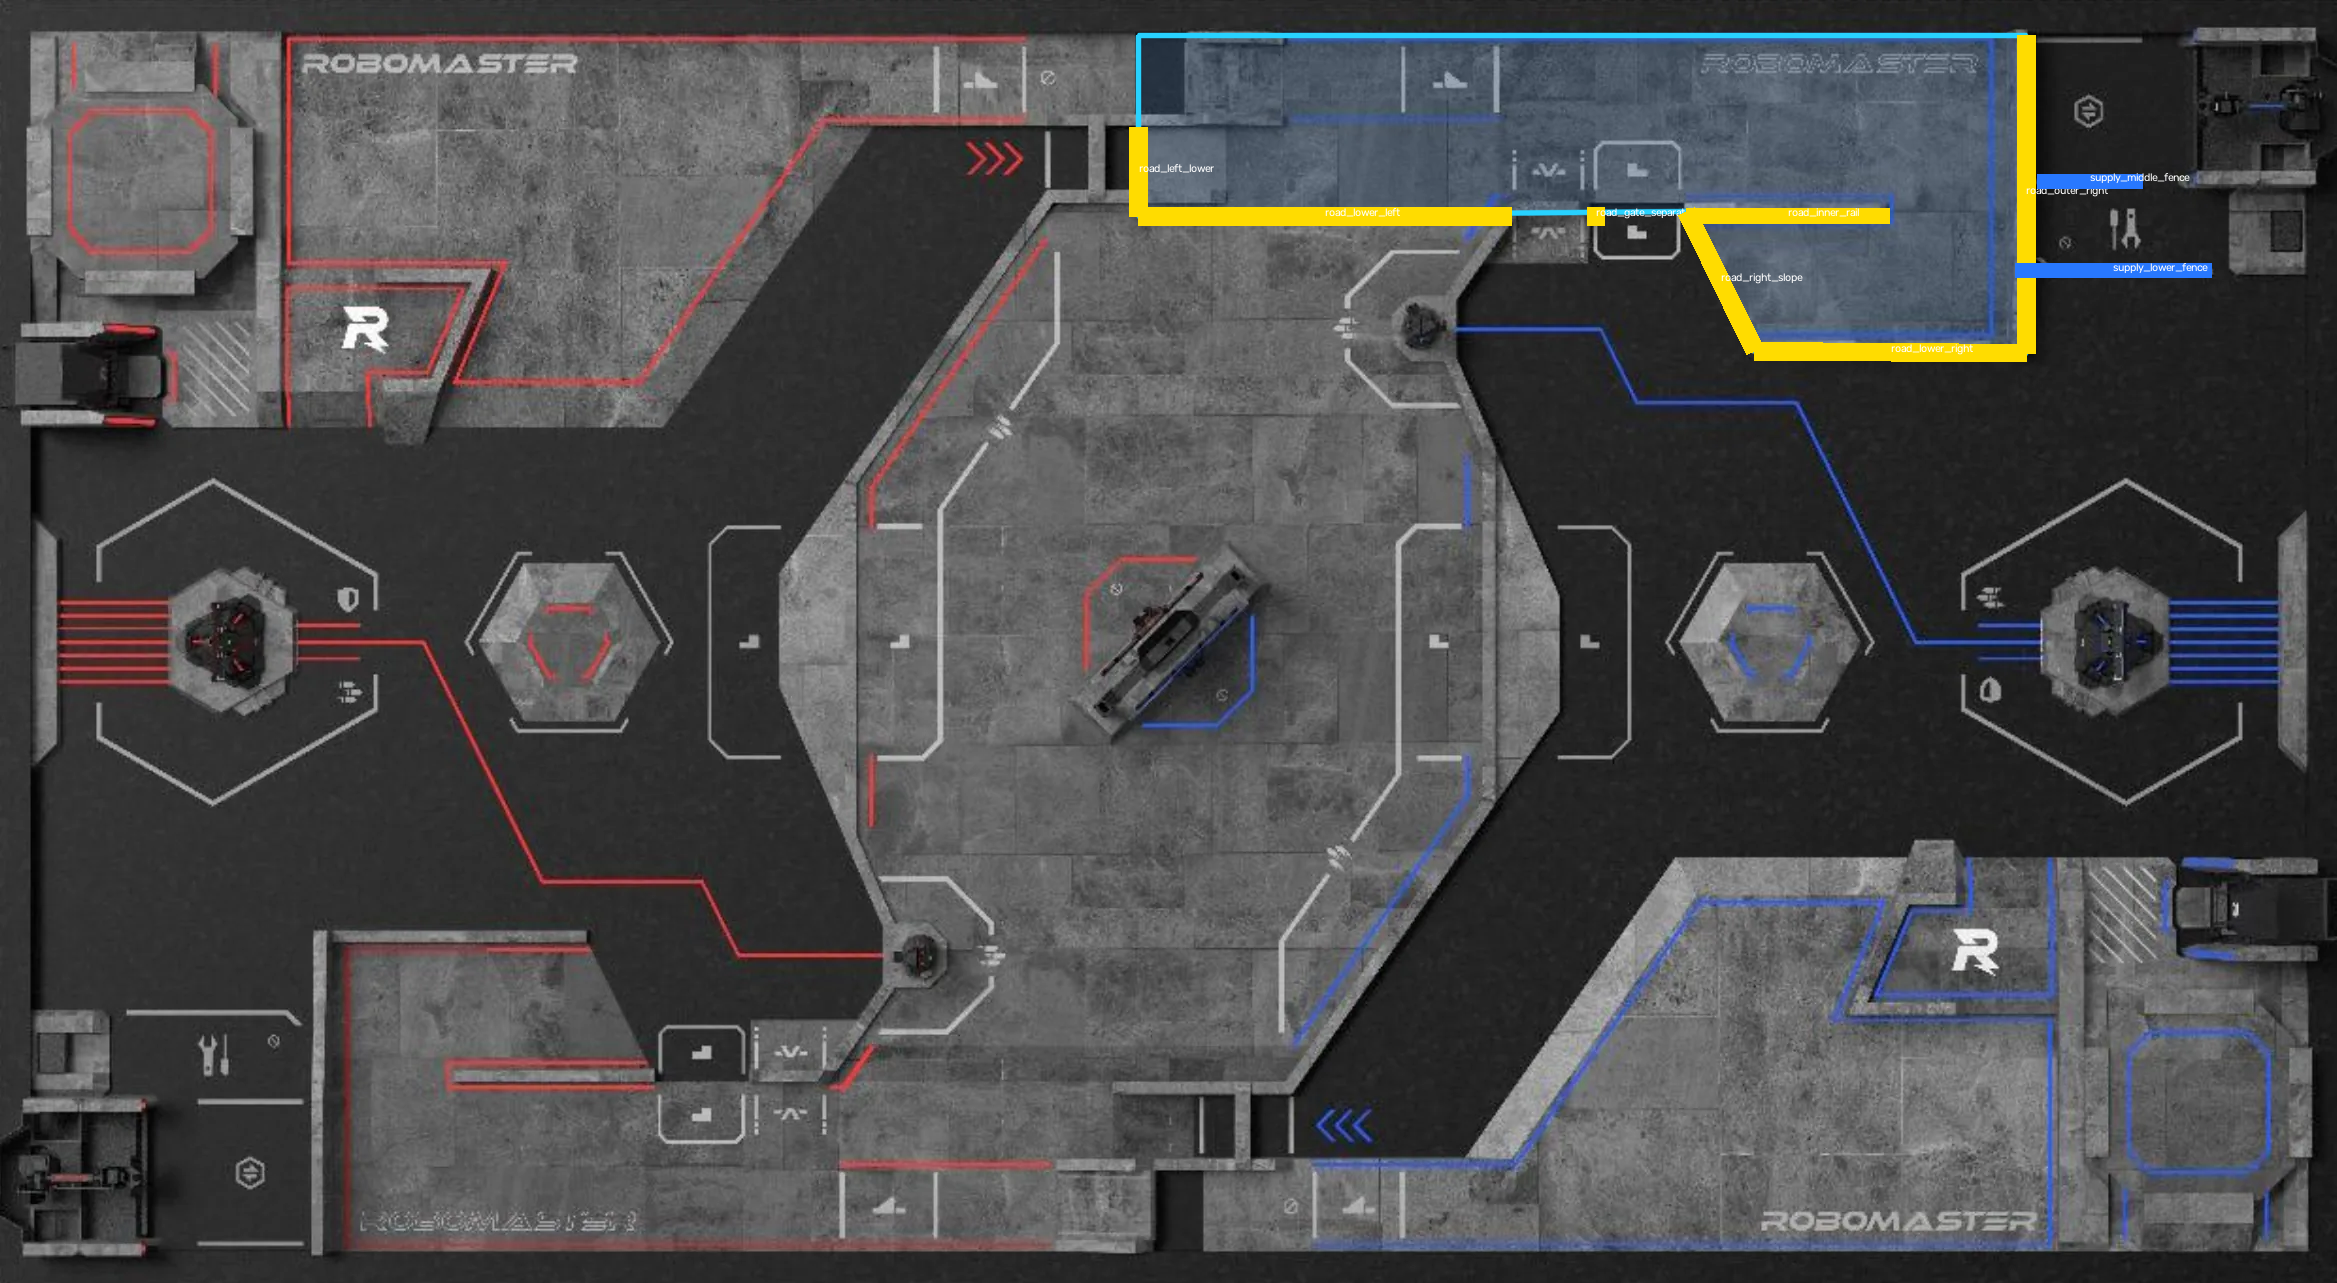
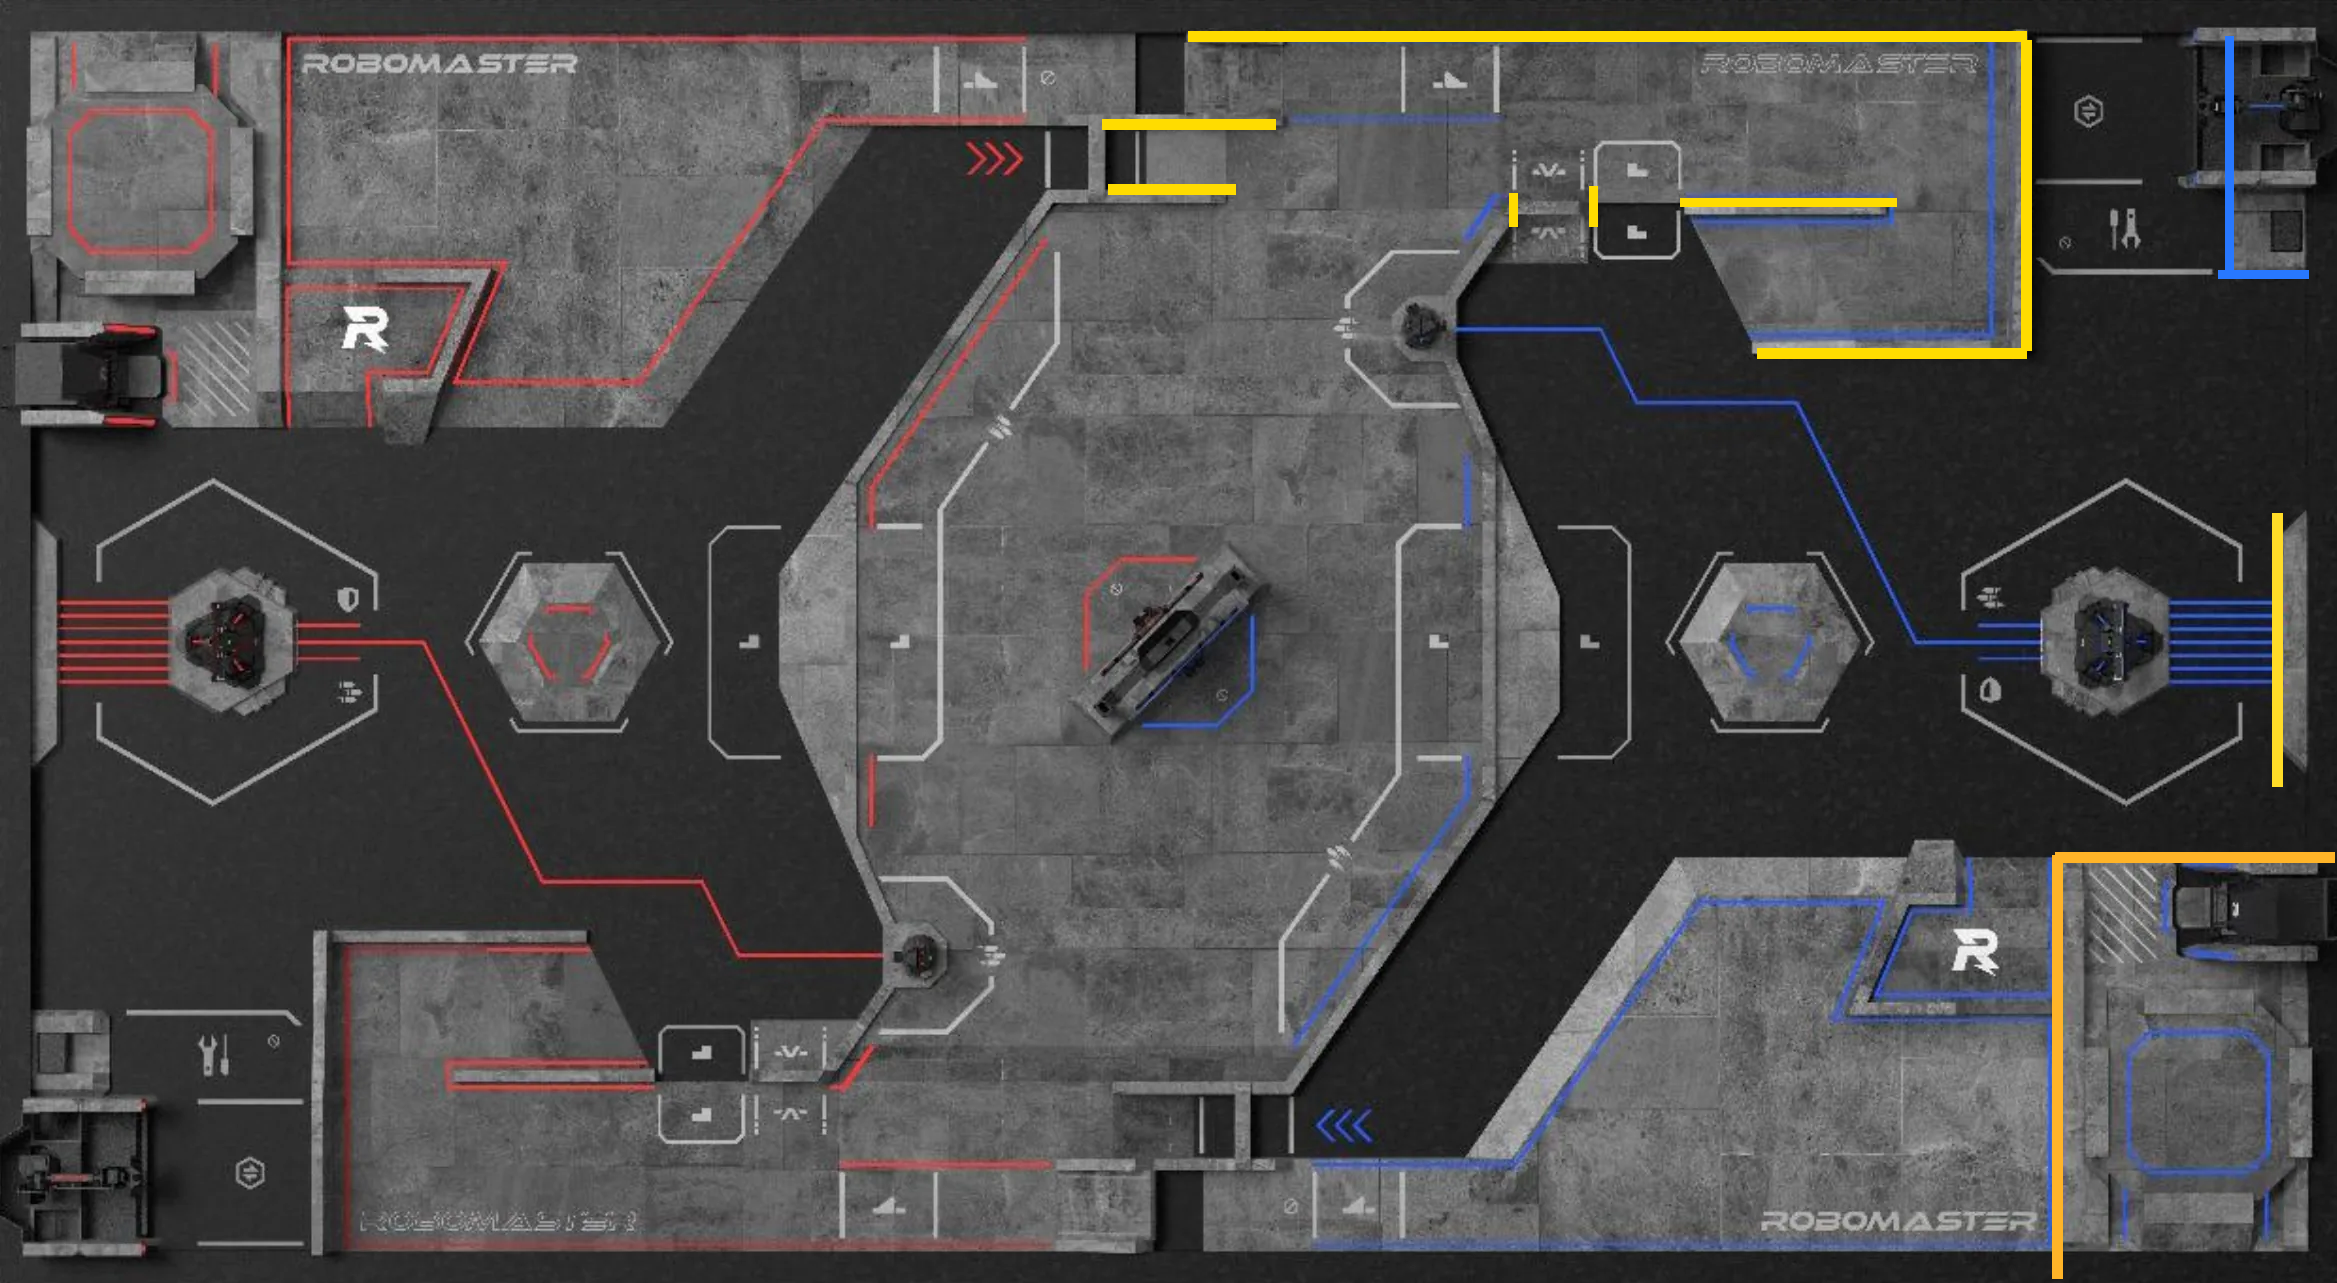
abcde

Changed region(s): [[0.4685, 0.0, 0.9996, 0.2806], [0.8746, 0.6547, 0.9996, 0.9977], [0.9683, 0.4053, 0.9996, 0.6235]]

diff --git a/docs/full-match-engine.js b/docs/full-match-engine.js
@@ -687,10 +687,29 @@
       && state.router.segmentHitsPolygon(start, end, gate.polygon)
     ));
     if (forbiddenGate) return true;
+    return crossesStaticWall(state, start, end);
+  }
+
+  function crossesStaticWall(state, start, end) {
     return (state.navigation.static_obstacles || []).some((obstacle) => (
       obstacle.blocks_movement !== false
       && state.router.segmentHitsPolygon(start, end, obstacle.polygon)
     ));
+  }
+
+  function enforceFrameWallClearance(state, frameStarts) {
+    state.robots.forEach((robot) => {
+      // UAVs fly above the wall layer and are intentionally unrestricted.
+      if (robot.role === "空中" || robot.hp <= 0) return;
+      const start = frameStarts.get(robot.key);
+      if (!start || !crossesStaticWall(state, start, robot.position)) return;
+      robot.position = [...start];
+      robot.route = [[...start]];
+      robot.nextDecisionAt = state.second;
+      robot.terrainAction = null;
+      robot.terrainSpeedMultiplier = 1;
+      robot.status = "墙体连续碰撞阻止 · 重新规划";
+    });
   }
 
   function moveRobots(state) {
@@ -1133,9 +1152,18 @@
     state.second += 1;
     updateEconomy(state);
     respawnRobots(state);
+    const groundFrameStarts = new Map(
+      state.robots
+        .filter((robot) => robot.role !== "空中" && robot.hp > 0)
+        .map((robot) => [robot.key, [...robot.position]]),
+    );
     updateUavSupport(state);
     moveRobots(state);
     separateRobots(state);
+    // The UI interpolates between per-second snapshots.  Although each route
+    // leg and separation push is legal on its own, their combined start/end
+    // chord can cut through a wall corner.  Validate the final visible chord.
+    enforceFrameWallClearance(state, groundFrameStarts);
     resupplyRobots(state);
     updateTechnologyCores(state);
     updateAssemblyProtection(state);
@@ -1242,5 +1270,6 @@
     canShelterInAssembly, serviceRequiredForDecision,
     applyRadarCounter, radarCounterUavs, updateUavSupport, updateTechnologyCores,
     updateAssemblyProtection, lineOfSight, snapshot, runMatch,
+    crossesStaticWall, enforceFrameWallClearance,
   };
 });

diff --git a/docs/full-match-ui.js b/docs/full-match-ui.js
@@ -50,6 +50,7 @@
     let simulation = null;
     let playhead = 0;
     let playing = false;
+    let playRequested = false;
     let playbackSpeed = Number(elements.speed.value) || 1;
     let selectedKey = "red:英雄";
     let seed = Date.now() >>> 0;
@@ -406,6 +407,16 @@
       elements.play.textContent = "▶ 播放";
     }
 
+    function startPlayback() {
+      if (!simulation) return false;
+      if (simulationComplete && playhead >= simulation.frames.length - 1) playhead = 0;
+      playRequested = false;
+      playing = true;
+      elements.play.textContent = "Ⅱ 暂停";
+      lastAnimation = performance.now();
+      return true;
+    }
+
     function acceptSimulation(result, latencyMs) {
       simulation = result;
       simulationComplete = true;
@@ -420,6 +431,7 @@
       elements.create.disabled = false;
       renderUi(true);
       drawMap();
+      if (playRequested) startPlayback();
     }
 
     function startStreamingSimulation(message) {
@@ -436,6 +448,7 @@
       elements.create.disabled = false;
       renderUi(true);
       drawMap();
+      if (playRequested) startPlayback();
     }
 
     function appendSimulationChunk(message) {
@@ -453,6 +466,7 @@
     }
 
     function simulationError(message) {
+      playRequested = false;
       elements.status.textContent = `推演失败：${message}`;
       elements.status.className = "error";
       elements.create.disabled = false;
@@ -547,14 +561,15 @@
       window.requestAnimationFrame(animation);
     }
 
-    elements.create.addEventListener("click", generate);
+    elements.create.addEventListener("click", () => { playRequested = false; generate(); });
     elements.play.addEventListener("click", () => {
-      if (!simulation) return;
-      if (playing) { stop(); return; }
-      if (simulationComplete && playhead >= simulation.frames.length - 1) playhead = 0;
-      playing = true;
-      elements.play.textContent = "Ⅱ 暂停";
-      lastAnimation = performance.now();
+      if (playing) { playRequested = false; stop(); return; }
+      if (startPlayback()) return;
+      playRequested = true;
+      elements.play.textContent = "… 准备中";
+      elements.status.textContent = "正在载入参数并生成对局，完成后自动播放";
+      if (model && navigation) generate();
+      else loadSimulationData();
     });
     elements.back.addEventListener("click", () => { playhead = Math.max(0, Math.floor(playhead) - 1); renderUi(true); drawMap(); });
     elements.forward.addEventListener("click", () => { if (!simulation) return; playhead = Math.min(simulation.frames.length - 1, Math.floor(playhead) + 1); renderUi(true); drawMap(); });

diff --git a/docs/app.js b/docs/app.js
@@ -604,7 +604,13 @@ function seek(second) {
   rememberPlayhead();
 }
 function stopPlayback(){state.playing=false;$("#play-button").textContent="▶ 播放";}
-function togglePlayback(){if(!state.game)return;if(state.playhead>=state.game.info.duration)seek(0);state.playing=!state.playing;$("#play-button").textContent=state.playing?"Ⅱ 暂停":"▶ 播放";state.lastAnimation=performance.now();}
+function togglePlayback(){
+  if(!state.game){showToast("比赛数据尚未载入，请稍候再播放");return;}
+  if(state.playhead>=state.game.info.duration)seek(0);
+  state.playing=!state.playing;
+  $("#play-button").textContent=state.playing?"Ⅱ 暂停":"▶ 播放";
+  state.lastAnimation=performance.now();
+}
 function animation(now){
   const dt=Math.min(.2,(now-state.lastAnimation)/1000);state.lastAnimation=now;
   if(state.playing&&state.game){state.playhead+=dt*state.speed;if(state.playhead>=state.game.info.duration){state.playhead=state.game.info.duration;stopPlayback();}const second=Math.floor(state.playhead);if(second!==state.lastSecond){renderState(second);rememberPlayhead();}state.dirty=true;}

diff --git a/web/app.js b/web/app.js
@@ -476,7 +476,13 @@ function seek(second) {
   rememberPlayhead();
 }
 function stopPlayback(){state.playing=false;$("#play-button").textContent="▶ 播放";}
-function togglePlayback(){if(!state.game)return;if(state.playhead>=state.game.info.duration)seek(0);state.playing=!state.playing;$("#play-button").textContent=state.playing?"Ⅱ 暂停":"▶ 播放";state.lastAnimation=performance.now();}
+function togglePlayback(){
+  if(!state.game){showToast("比赛数据尚未载入，请稍候再播放");return;}
+  if(state.playhead>=state.game.info.duration)seek(0);
+  state.playing=!state.playing;
+  $("#play-button").textContent=state.playing?"Ⅱ 暂停":"▶ 播放";
+  state.lastAnimation=performance.now();
+}
 function animation(now){
   const dt=Math.min(.2,(now-state.lastAnimation)/1000);state.lastAnimation=now;
   if(state.playing&&state.game){state.playhead+=dt*state.speed;if(state.playhead>=state.game.info.duration){state.playhead=state.game.info.duration;stopPlayback();}const second=Math.floor(state.playhead);if(second!==state.lastSecond){renderState(second);rememberPlayhead();}state.dirty=true;}

diff --git a/docs/full-match-worker.js b/docs/full-match-worker.js
@@ -2,7 +2,7 @@
 
 // The 421-second simulation performs terrain-aware routing for twelve robots.
 // Keep that CPU work off the UI thread so loading and scrolling stay responsive.
-importScripts("./terrain-router.js?v=4", "./full-match-engine.js?v=10");
+importScripts("./terrain-router.js?v=4", "./full-match-engine.js?v=11");
 
 let model = null;
 let navigation = null;

diff --git a/docs/index.html b/docs/index.html
@@ -229,7 +229,7 @@
   <script>window.RMUC_STATIC_DATA = true;</script>
   <script src="./app.js?v=20"></script>
   <script src="./terrain-router.js?v=4"></script>
-  <script src="./full-match-engine.js?v=10"></script>
+  <script src="./full-match-engine.js?v=11"></script>
   <script src="./full-match-ui.js?v=14"></script>
   <script src="./match-simulator.js?v=2"></script>
 </body>

diff --git a/analysis/road_enclosure_cv.py b/analysis/road_enclosure_cv.py
@@ -154,25 +154,62 @@ def extract_blue_enclosures(map_path: Path) -> RoadEnclosure:
         right_slope_end, right_slope_start, (left_x, centre_y),
     )
 
-    # Gate openings use the user-confirmed B1/B2/B3 tolerance widths.  A small
-    # extra margin prevents a 0.35 m route grid node from grazing a wall corner.
-    b1_top, b1_bottom = 84 - 43, 84 + 43
-    b2_left, b2_right = 1549 - 38, 1549 + 38
-    b3_left, b3_right = 1642 - 38, 1642 + 38
-    centre_end = max(right_slope_start[0], 1677)
-
-    walls = (
-        WallSegment("blue_road_left_lower", "road_fence", (left_x, b1_bottom), (left_x, centre_y)),
-        WallSegment("blue_road_lower_left", "road_fence", (left_x, centre_y), (b2_left, centre_y)),
-        WallSegment("blue_road_gate_separator_23", "road_fence", (b2_right, centre_y), (b3_left, centre_y)),
-        WallSegment("blue_road_right_slope", "road_fence", right_slope_start, right_slope_end),
-        WallSegment("blue_road_lower_right", "road_fence", right_slope_end, (right_x, bottom_y)),
-        WallSegment("blue_road_outer_right", "road_fence", (right_x, top_y), (right_x, bottom_y)),
-        # This inner rail is visible between the B3 structure and the rough-road section.
-        WallSegment("blue_road_inner_rail", "road_fence", (centre_end, centre_y), (1889, centre_y), 15.0),
-        WallSegment("blue_supply_middle_fence", "supply_fence", (2037, supply_mid_y), (2142, supply_mid_y), 14.0),
-        WallSegment("blue_supply_lower_fence", "supply_fence", (2015, supply_low_y), (2211, supply_low_y), 14.0),
+    # These are physical walls, transcribed from the user's yellow correction.
+    # Each guide is fitted back to an edge in the clean map; coloured field
+    # paint is deliberately not treated as collision geometry.  Keeping the
+    # individual segments also preserves every doorway/opening in the trace.
+    # Registered from the 714x394 correction image to map.webp with a
+    # 508-inlier SIFT/RANSAC homography.  Guides describe only the yellow
+    # strokes; no unmarked interior structures are inferred as walls.
+    wall_guides = (
+        ("blue_road_top", "road_fence", (1188, 40), (2026, 40), 10.0),
+        ("blue_road_outer_right", "road_fence", (2026, 40), (2026, 350), 10.0),
+        ("blue_road_bottom_right", "road_fence", (1757, 350), (2026, 350), 10.0),
+        ("blue_road_left_upper", "road_fence", (1102, 120), (1275, 120), 10.0),
+        ("blue_road_left_lower", "road_fence", (1108, 190), (1235, 190), 10.0),
+        ("blue_road_gate_post", "road_fence", (1504, 193), (1504, 226), 8.0),
+        ("blue_road_structure_post", "road_fence", (1594, 186), (1594, 226), 8.0),
+        ("blue_road_inner_rail", "road_fence", (1680, 203), (1896, 203), 8.0),
+        ("blue_supply_outer_left", "supply_fence", (2218, 36), (2218, 273), 8.0),
+        ("blue_supply_outer_bottom", "supply_fence", (2218, 273), (2308, 273), 8.0),
+        ("blue_fortress_outer", "fortress_wall", (2278, 513), (2278, 786), 10.0),
+        ("blue_base_top", "base_wall", (2055, 855), (2334, 855), 10.0),
+        ("blue_base_left", "base_wall", (2055, 855), (2055, 1278), 10.0),
     )
+
+    fitted_walls: list[WallSegment] = []
+    for wall_id, category, start, end, thickness in wall_guides:
+        margin = 28
+        search = (
+            max(0, int(min(start[0], end[0]) - margin)),
+            max(0, int(min(start[1], end[1]) - margin)),
+            min(image.shape[1], int(max(start[0], end[0]) + margin + 1)),
+            min(image.shape[0], int(max(start[1], end[1]) + margin + 1)),
+        )
+        dx, dy = end[0] - start[0], end[1] - start[1]
+        # The field walls are manufactured as an orthogonal layout.  OpenCV is
+        # used only to locate the physical axis; it must not introduce the
+        # small slopes seen in paint, shadows or perspective-resampling noise.
+        if abs(dx) >= abs(dy) * 2:
+            axis = _axis_coordinate(edges, "horizontal", (start[1] + end[1]) / 2, search)
+            fitted_start = (float(start[0]), axis)
+            fitted_end = (float(end[0]), axis)
+        elif abs(dy) >= abs(dx) * 2:
+            axis = _axis_coordinate(edges, "vertical", (start[0] + end[0]) / 2, search)
+            fitted_start = (axis, float(start[1]))
+            fitted_end = (axis, float(end[1]))
+        else:
+            fitted_start, fitted_end = _angled_line(edges, start, end, search)
+        # A short decorative edge can be perpendicular to the guide and project
+        # both semantic endpoints onto one pixel.  Such a degenerate fit is not
+        # evidence for moving/removing the wall, so retain the user guide.
+        expected_length = math.dist(start, end)
+        if math.dist(fitted_start, fitted_end) < expected_length * 0.55:
+            fitted_start, fitted_end = start, end
+        fitted_walls.append(
+            WallSegment(wall_id, category, fitted_start, fitted_end, thickness)
+        )
+    walls = tuple(fitted_walls)
     detected = {
         "road_left": ((left_x, top_y), (left_x, centre_y)),
         "road_right": ((right_x, top_y), (right_x, bottom_y)),
@@ -199,20 +236,15 @@ def segment_polygon(segment: WallSegment) -> tuple[tuple[float, float], ...]:
 def draw_debug_overlay(map_path: Path, output_path: Path) -> None:
     data = extract_blue_enclosures(map_path)
     image = cv2.imread(str(map_path), cv2.IMREAD_COLOR)
-    overlay = image.copy()
-    region = np.asarray(data.region_px, dtype=np.int32)
-    cv2.fillPoly(overlay, [region], (150, 80, 20))
-    image = cv2.addWeighted(overlay, 0.20, image, 0.80, 0)
-    cv2.polylines(image, [region], True, (255, 210, 40), 3, cv2.LINE_AA)
-    colours = {"road_fence": (0, 220, 255), "supply_fence": (255, 120, 40), "supply_structure": (180, 80, 255)}
+    colours = {
+        "road_fence": (0, 220, 255),
+        "supply_fence": (255, 120, 40),
+        "fortress_wall": (40, 220, 255),
+        "base_wall": (40, 180, 255),
+    }
     for wall in data.walls:
         polygon = np.asarray(segment_polygon(wall), dtype=np.int32)
         cv2.fillPoly(image, [polygon], colours[wall.category])
-        midpoint = (
-            round((wall.start_px[0] + wall.end_px[0]) / 2),
-            round((wall.start_px[1] + wall.end_px[1]) / 2),
-        )
-        cv2.putText(image, wall.wall_id.removeprefix("blue_"), midpoint, cv2.FONT_HERSHEY_SIMPLEX, .36, (255, 255, 255), 1, cv2.LINE_AA)
     output_path.parent.mkdir(parents=True, exist_ok=True)
     cv2.imwrite(str(output_path), image)
 

diff --git a/ml/test_match_simulator.py b/ml/test_match_simulator.py
@@ -374,10 +374,44 @@ function probeHardRules() {
     lineOfSight:{ground:engine.lineOfSight(state,hero,[19,7.5]),uav:engine.lineOfSight(state,uav,[19,7.5])},
   };
 }
+function wallCrossingSegment(wall) {
+  const xs=wall.polygon.map(point=>point[0]), ys=wall.polygon.map(point=>point[1]);
+  const minX=Math.min(...xs), maxX=Math.max(...xs), minY=Math.min(...ys), maxY=Math.max(...ys);
+  const cx=(minX+maxX)/2, cy=(minY+maxY)/2;
+  return maxX-minX >= maxY-minY
+    ? [[cx,minY-0.25],[cx,maxY+0.25]]
+    : [[minX-0.25,cy],[maxX+0.25,cy]];
+}
+function probeWallLayers() {
+  const wall=nav.static_obstacles.find(item=>item.blocks_movement!==false);
+  const [start,end]=wallCrossingSegment(wall);
+  const ground={key:'ground',role:'步兵3',hp:100,position:[...end],route:[[...end]],nextDecisionAt:99,terrainAction:'x',terrainSpeedMultiplier:.5,status:''};
+  const uav={key:'uav',role:'空中',hp:100,position:[...end],route:[[...end]],nextDecisionAt:99,terrainAction:null,terrainSpeedMultiplier:1,status:''};
+  const state={navigation:nav,router,second:10,robots:[ground,uav]};
+  engine.enforceFrameWallClearance(state,new Map([['ground',start],['uav',start]]));
+  return {start,end,ground:ground.position,uav:uav.position,crosses:engine.crossesStaticWall(state,start,end)};
+}
+function probeWallSeeds() {
+  const names=Object.keys(model.teams), seeds=[20260721,20260723,20260724,20260725];
+  let segments=0, violations=0;
+  for(const seed of seeds){
+    const run=seed-20260720;
+    const result=engine.runMatch(model,nav,names[run*2%names.length],names[(run*2+1)%names.length],seed,router);
+    for(let index=1;index<result.frames.length;index+=1){
+      for(const robot of result.frames[index].robots.filter(item=>item.role!=='空中')){
+        const previous=result.frames[index-1].robots.find(item=>item.key===robot.key);
+        segments+=1;
+        if(nav.static_obstacles.some(wall=>wall.blocks_movement!==false
+          &&router.segmentHitsPolygon([previous.x,previous.y],[robot.x,robot.y],wall.polygon))) violations+=1;
+      }
+    }
+  }
+  return {matches:seeds.length,segments,violations};
+}
 const first=run();
 const repeat=run();
 const zones={base:probeZone('base'),outpost:probeZone('outpost'),supply:probeZone('supply')};
-console.log(JSON.stringify({first:{...first,signature:undefined},deterministic:first.signature===repeat.signature,zones,v210:probeV210(),uavRules:probeUavRules(),technologyCore:probeTechnologyCore(),hardRules:probeHardRules()}));
+console.log(JSON.stringify({first:{...first,signature:undefined},deterministic:first.signature===repeat.signature,zones,v210:probeV210(),uavRules:probeUavRules(),technologyCore:probeTechnologyCore(),hardRules:probeHardRules(),wallLayers:probeWallLayers(),wallSeeds:probeWallSeeds()}));
 """
         result = subprocess.run(
             ["node", "-e", script], cwd=ROOT, text=True,
@@ -391,6 +425,8 @@ console.log(JSON.stringify({first:{...first,signature:undefined},deterministic:f
         cls.uav_rules = payload["uavRules"]
         cls.technology_core = payload["technologyCore"]
         cls.hard_rules = payload["hardRules"]
+        cls.wall_layers = payload["wallLayers"]
+        cls.wall_seeds = payload["wallSeeds"]
 
     def test_complete_match_has_421_frames_and_12_agents(self):
         self.assertEqual(421, self.result["frames"])
@@ -422,6 +458,17 @@ console.log(JSON.stringify({first:{...first,signature:undefined},deterministic:f
         actions = self.result["terrainDirections"]
         self.assertTrue(any("上公路台阶" in action for action in actions))
         self.assertTrue(any("下公路台阶" in action for action in actions))
+
+    def test_frame_finalizer_blocks_ground_wall_crossing_but_not_uav(self):
+        probe = self.wall_layers
+        self.assertTrue(probe["crosses"])
+        self.assertEqual(probe["start"], probe["ground"])
+        self.assertEqual(probe["end"], probe["uav"])
+
+    def test_previous_wall_collision_seeds_are_clear(self):
+        self.assertEqual(4, self.wall_seeds["matches"])
+        self.assertGreaterEqual(self.wall_seeds["segments"], 16000)
+        self.assertEqual(0, self.wall_seeds["violations"])
 
     def test_simulation_contains_combat_supply_and_terrain_actions(self):
         event_types = set(self.result["eventTypes"])

diff --git a/analysis/test_road_enclosure_cv.py b/analysis/test_road_enclosure_cv.py
@@ -18,18 +18,33 @@ class RoadEnclosureCvTests(unittest.TestCase):
         self.assertAlmostEqual(351, polygon[2][1], delta=12)
 
     def test_playable_walls_have_nonzero_collision_area(self):
-        self.assertEqual(9, len(self.data.walls))
+        self.assertEqual(13, len(self.data.walls))
         for wall in self.data.walls:
             polygon = road_enclosure_cv.segment_polygon(wall)
             self.assertEqual(4, len(polygon))
             side = math.dist(polygon[0], polygon[3])
-            self.assertGreater(side, 10, wall.wall_id)
+            self.assertGreater(side, 5, wall.wall_id)
 
-    def test_supply_fences_are_detected_at_the_three_visible_rows(self):
-        detected = self.data.detected_lines
-        self.assertAlmostEqual(40, detected["supply_top"][0][1], delta=6)
-        self.assertAlmostEqual(182, detected["supply_middle"][0][1], delta=6)
-        self.assertAlmostEqual(271, detected["supply_lower"][0][1], delta=6)
+    def test_registered_trace_coordinates_match_original_map(self):
+        by_id = {wall.wall_id: wall for wall in self.data.walls}
+        self.assertAlmostEqual(2026, by_id["blue_road_outer_right"].start_px[0], delta=12)
+        self.assertAlmostEqual(2055, by_id["blue_base_left"].start_px[0], delta=12)
+        self.assertAlmostEqual(855, by_id["blue_base_top"].start_px[1], delta=12)
+
+    def test_corrected_wall_trace_keeps_openings(self):
+        by_id = {wall.wall_id: wall for wall in self.data.walls}
+        self.assertNotIn("blue_road_lower_right", by_id)
+        self.assertIn("blue_fortress_outer", by_id)
+        self.assertIn("blue_base_left", by_id)
+
+    def test_manufactured_wall_axes_are_orthogonal(self):
+        for wall in self.data.walls:
+            dx = abs(wall.end_px[0] - wall.start_px[0])
+            dy = abs(wall.end_px[1] - wall.start_px[1])
+            if dx >= dy * 2:
+                self.assertAlmostEqual(wall.start_px[1], wall.end_px[1], places=6)
+            elif dy >= dx * 2:
+                self.assertAlmostEqual(wall.start_px[0], wall.end_px[0], places=6)
 
 
 if __name__ == "__main__":